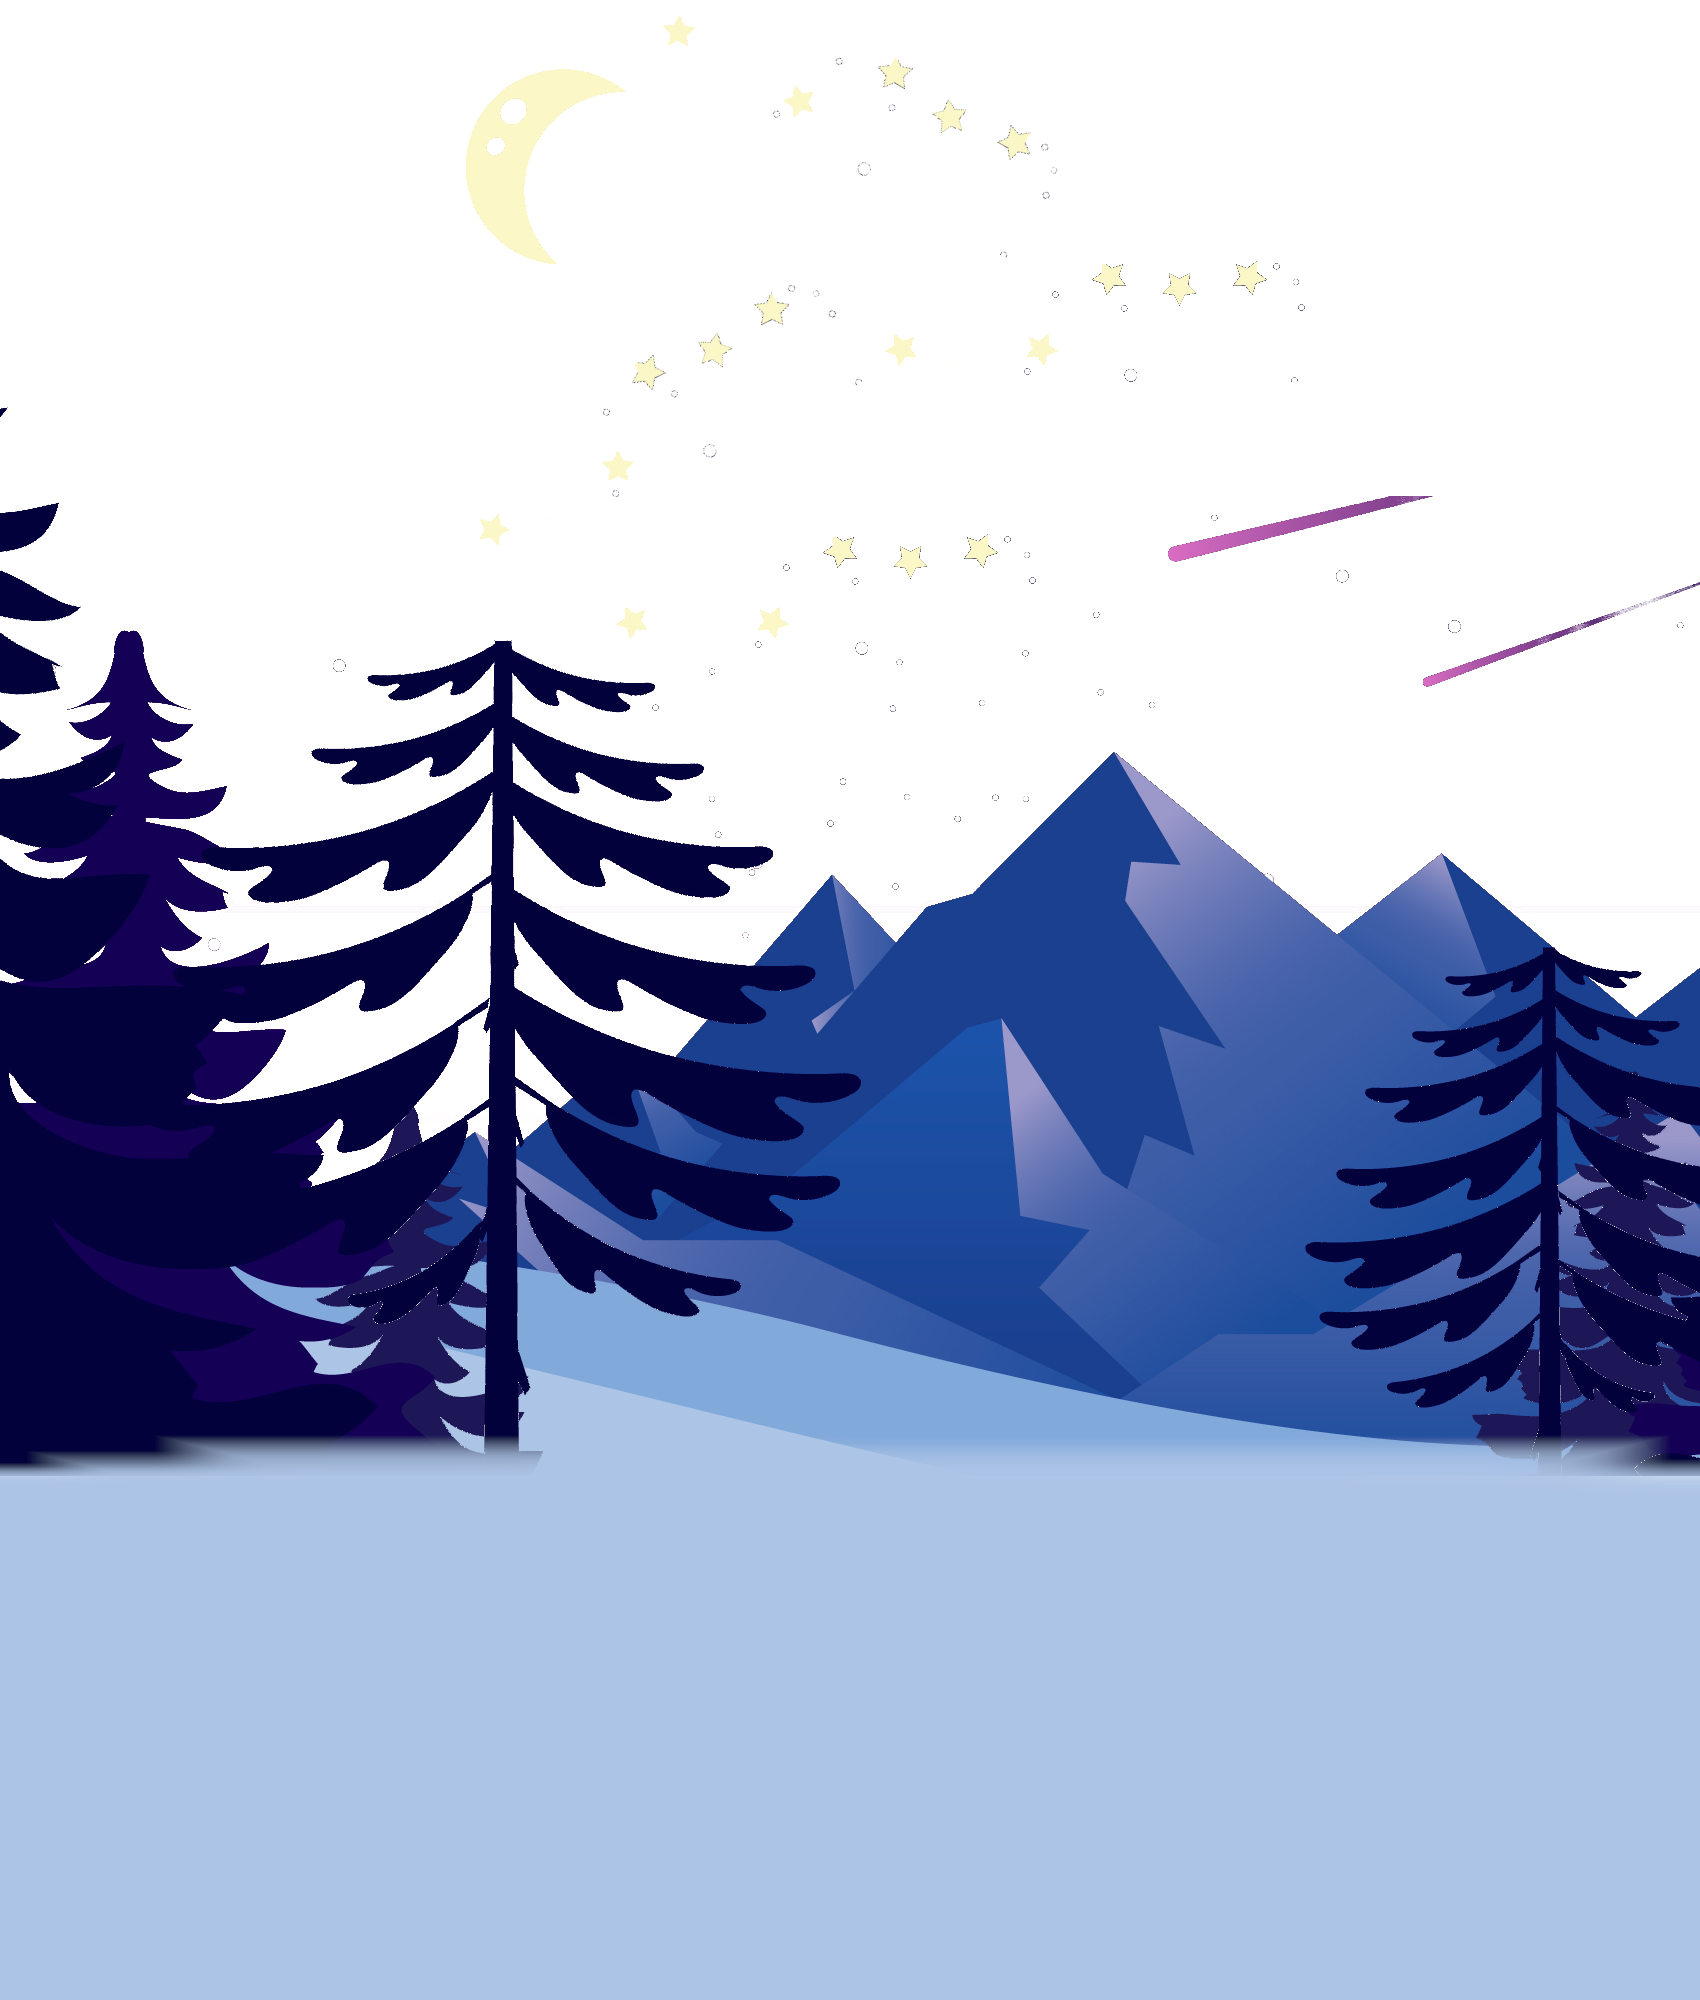
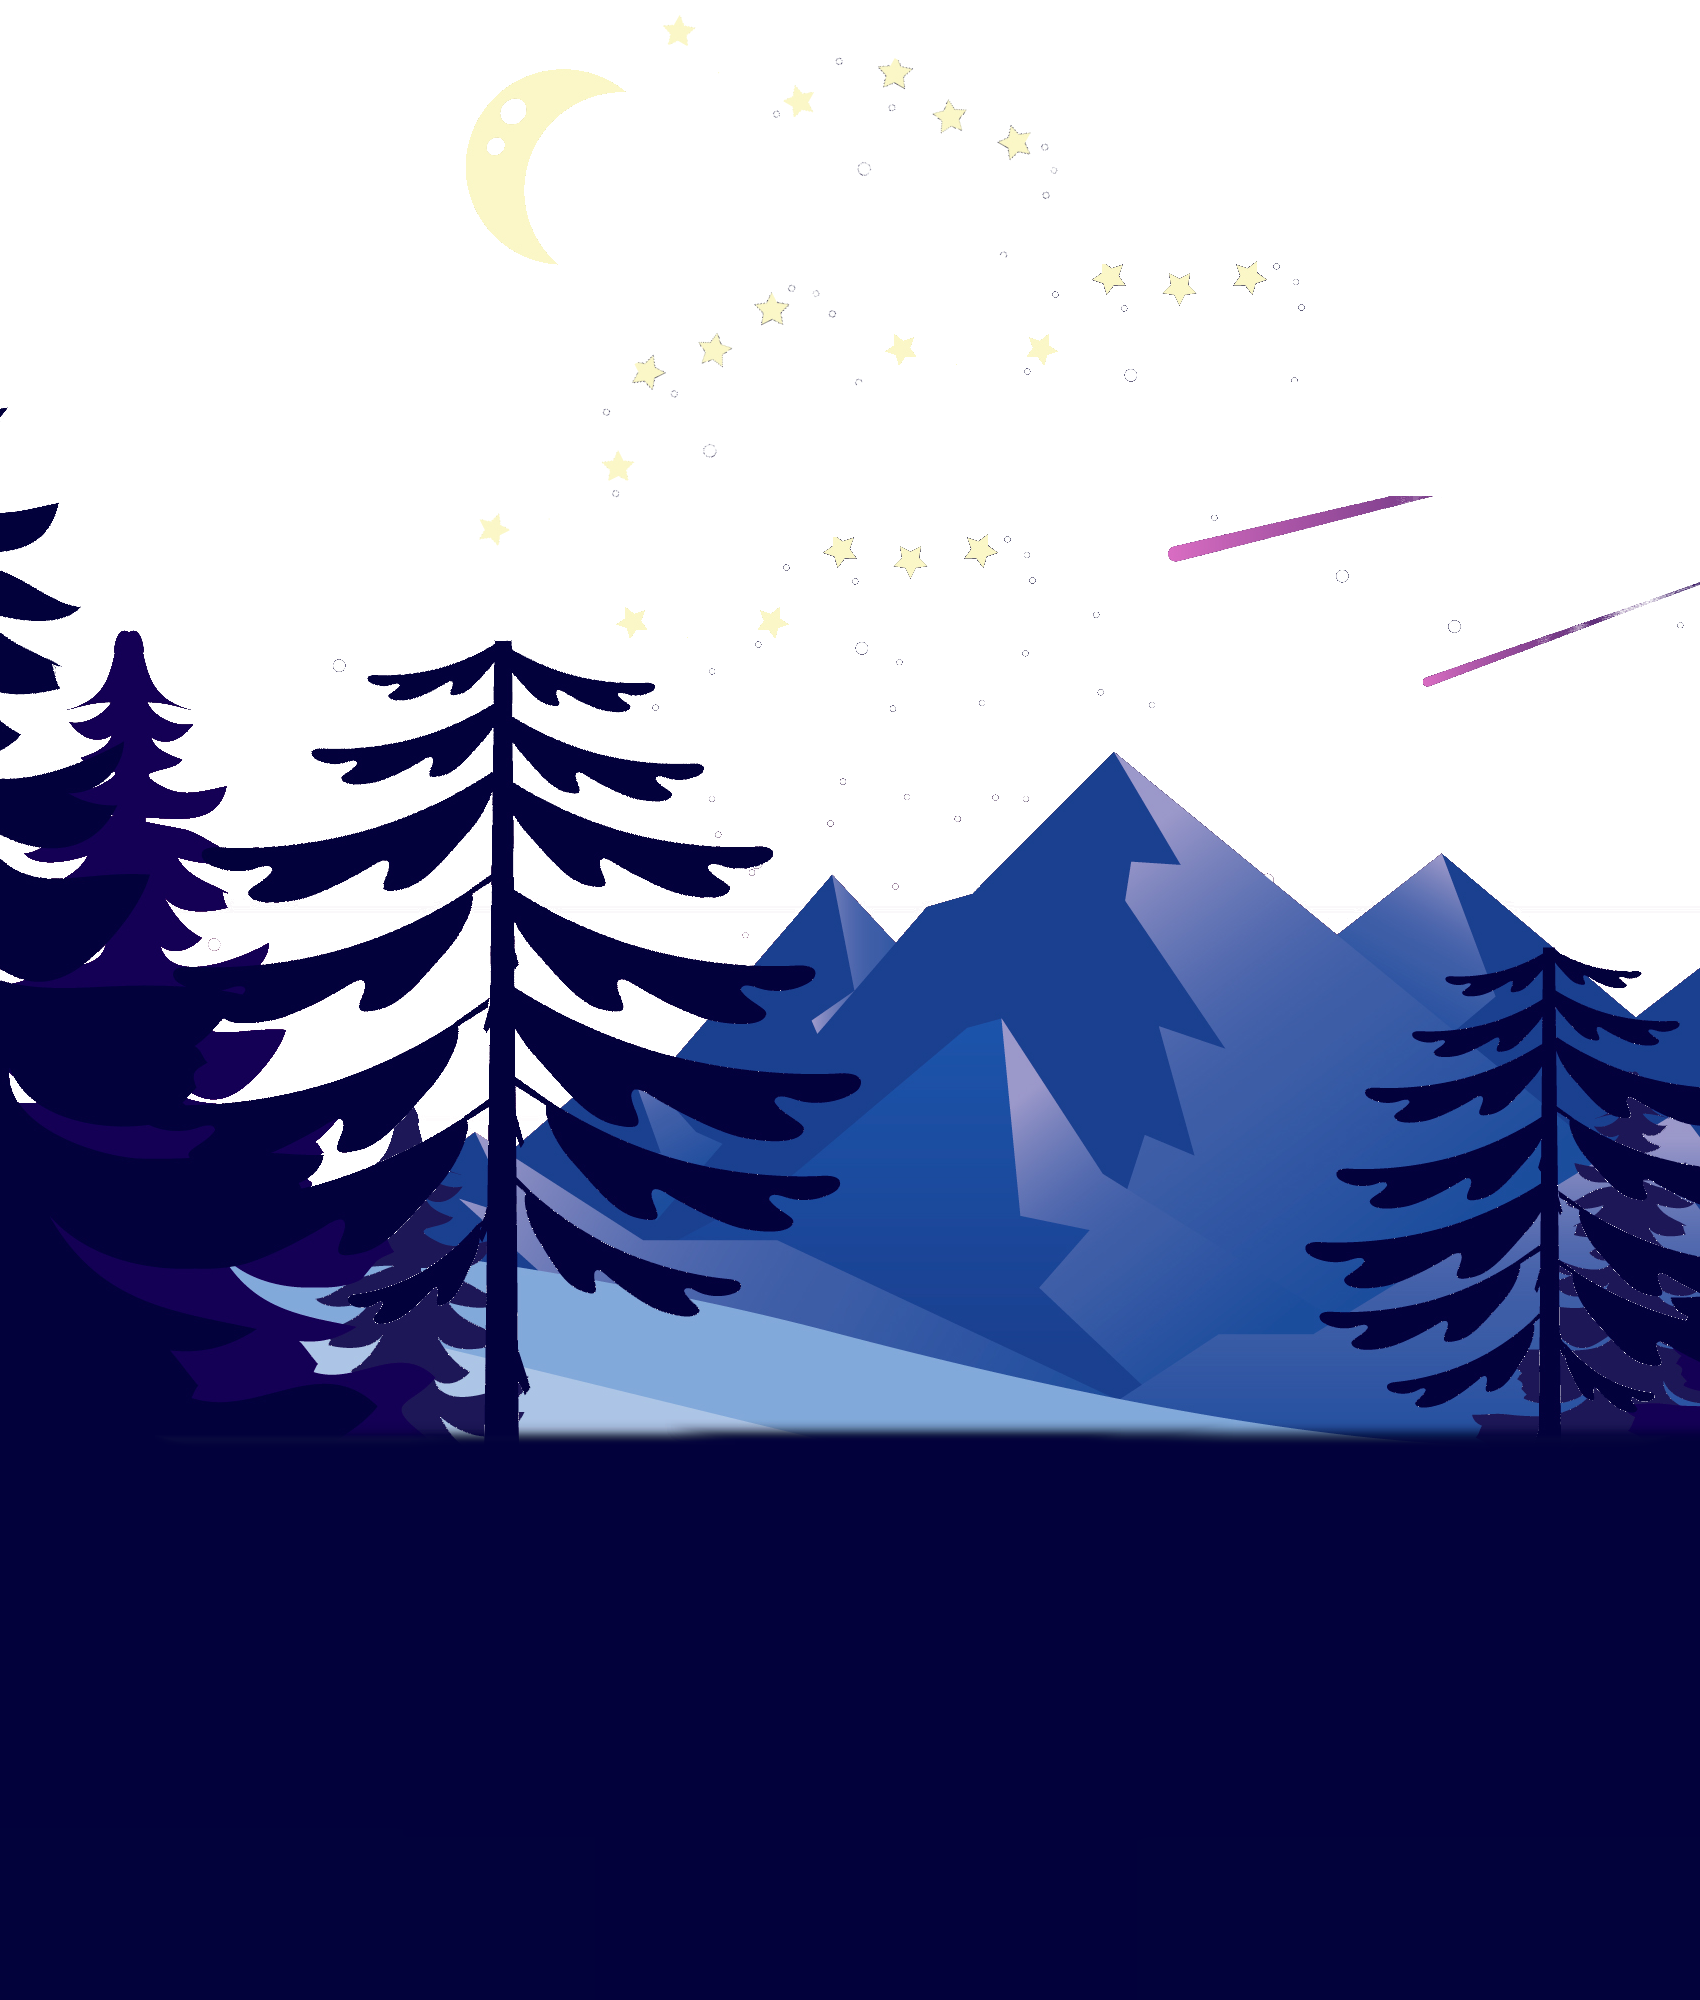
adding clock and all bg

Changed region(s): [[0.0, 0.713, 1.0, 1.0]]

diff --git a/src/components/App/index.js b/src/components/App/index.js
@@ -5,7 +5,7 @@ import "./App.scss";
 import Header from "../Header/index";
 import Footer from '../Footer';
 import WeekDetail from '../WeekDetail';
-import sun from "../../images/bigsun.png";
+import sun from "../../images/sundark.png";
 import { Switch, Route} from 'react-router-dom';
 import DailyDetail from "../DailyDetail";
 
